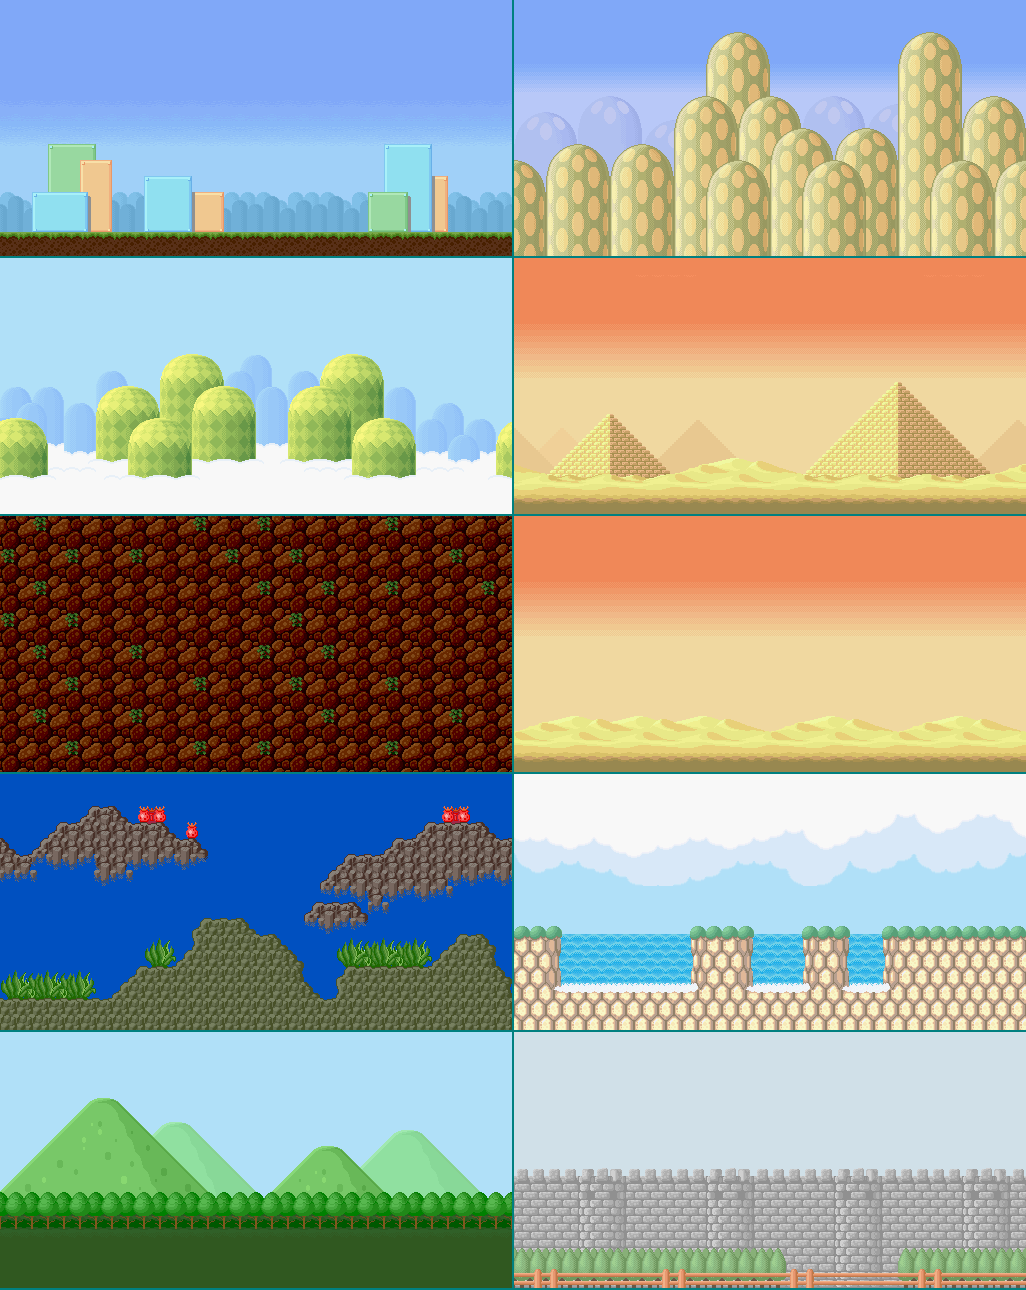
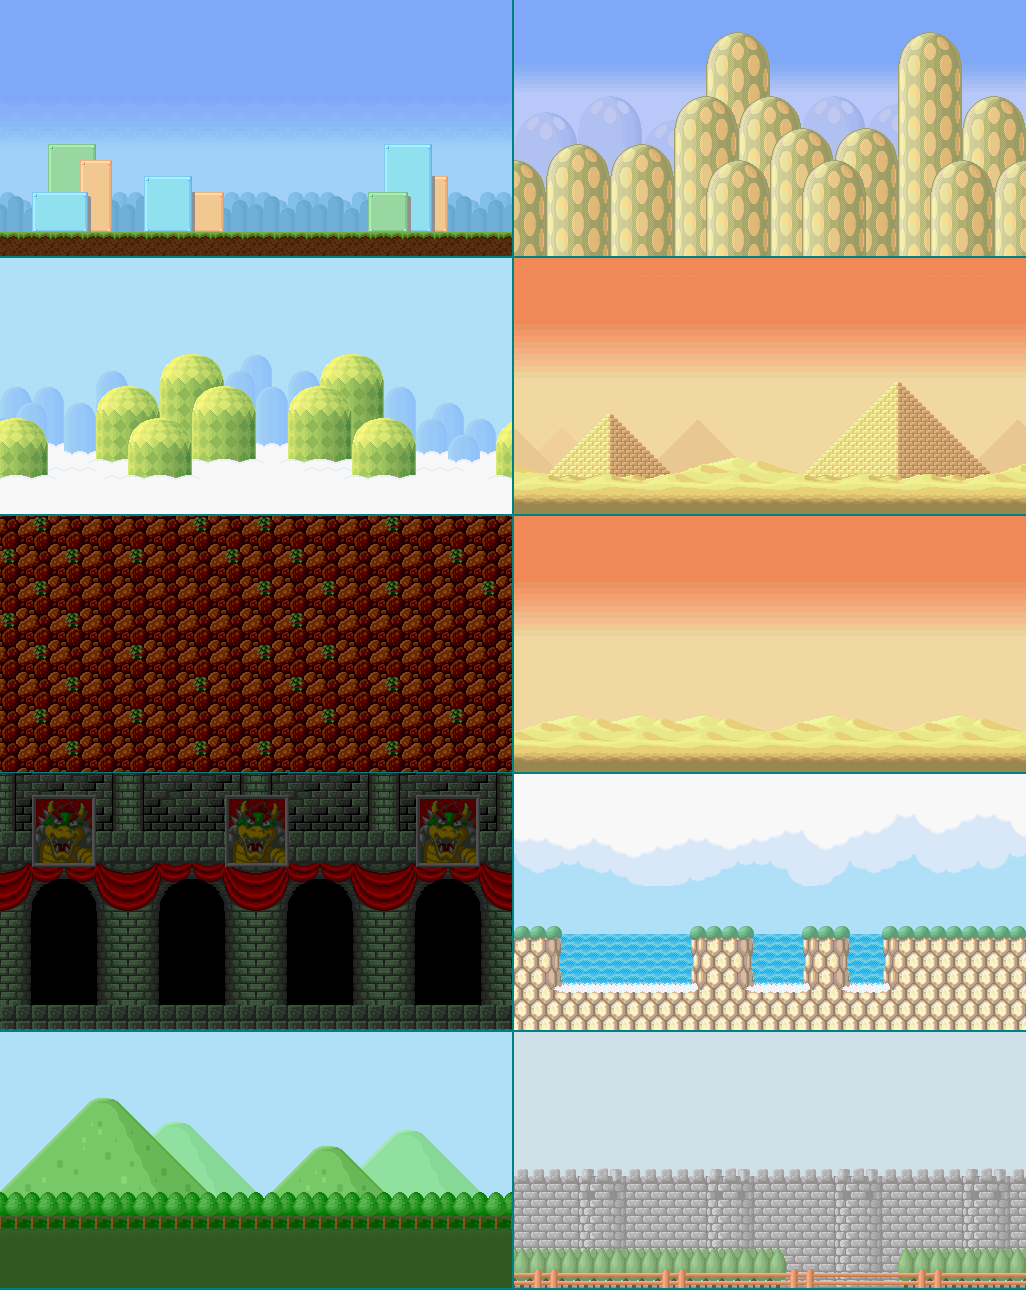
Implemented Boss Level fully. Other small fixes.
- Added Level 4
- Implemented variable levelID to change levels ( 4 max currently)
- Added checks in Load level to not try to create Boss, Flag, or castles
if they dont exist (was causing an error)
- Implemented more checks in the Question Box but still not working
totally. Sometimes its possible to hit a Question box on the side, and
the coins is triggered. Still needs a little more work.

Changed region(s): [[0.0, 0.5891, 0.499, 0.8062]]

diff --git a/Mario/game.js b/Mario/game.js
@@ -362,13 +362,21 @@ GameEngine.prototype.loadLevel = function (jSonString, gameEngine) {
 
     // need to make it load from json testing now
     //castle inside entitiies obj from json
-    gameEngine.addEntity(new Castle(this.entitiesObj.castle.init_x, this.entitiesObj.castle.init_y, gameEngine));
+    if(this.entitiesObj.castle) {
+    	    gameEngine.addEntity(new Castle(this.entitiesObj.castle.init_x, this.entitiesObj.castle.init_y, gameEngine));
+    }
 
-    // pole
+    if(this.entitiesObj.pole) {
+    	    // pole
     gameEngine.addEntity(new Pole(this.entitiesObj.pole.init_x, this.entitiesObj.pole.init_y, gameEngine));
+    }
 
-    // Boss
+    if(this.entitiesObj.boss) {
+    	    // Boss
     gameEngine.addEntity(new Bowser(this.entitiesObj.boss.init_x, this.entitiesObj.boss.init_y, gameEngine));
+    }
+
+
 
     //Mario inside Players
     this.marioObj = this.playersObj.mario;
@@ -1248,7 +1256,7 @@ QuestionBox.prototype.update = function () {
 QuestionBox.prototype.collide = function(other) {
     //Check for bottom collision
     
-    if(other.boundingbox.top < this.boundingbox.bottom && other.boundingbox.bottom > this.boundingbox.bottom) { //We have a collsion from below
+    if(other.boundingbox.top < this.boundingbox.bottom && other.boundingbox.bottom > this.boundingbox.bottom && ((other.boundingbox.left < this.boundingbox.right && other.boundingbox.right > this.boundingbox.right) ||(other.boundingbox.right > this.boundingbox.left && other.boundingbox.left < this.boundingbox.left)) ) { //We have a collsion from below
             if(!this.hitAlready) { //if not hit already
                 if(this.hasCoin) {                   
                     this.hitAlready = true;
@@ -1805,13 +1813,13 @@ Bowser.prototype.constructor = Bowser;
 
 Bowser.prototype.update = function () {
 		//Track Marios location and approach within 10 pixels to attack
-		if((this.game.mario.x - this.x) <= -30 ) { //Mario is on the left, Bowser go right
+		if((this.game.mario.x - this.x) <= -40 ) { //Mario is on the left, Bowser go right
 			this.isRight = false;
 			this.isWalking = true;
 			this.timeToShoot = false;
 			this.direction--;
     		this.lastDirection = -1;
-		} else if((this.game.mario.x - this.x) >= 30 ) { //Mario is on the right, Bowser go left
+		} else if((this.game.mario.x - this.x) >= 40 ) { //Mario is on the right, Bowser go left
 			this.isRight = true;
 			this.isWalking = true;
 			this.timeToShoot = false;
@@ -1889,11 +1897,11 @@ Bowser.prototype.draw = function (ctx) {
     //ctx.strokeRect(this.x, this.y, this.rightBowserShootAnimation.frameWidth, this.rightBowserShootAnimation.frameHeight);
 	if(this.timeToShoot && !this.isJumping) {
 		if(this.isRight) {
-			this.rightBowserShootAnimation.drawFrame(this.game.clockTick, ctx,  this.x, this.y);
+			this.rightBowserShootAnimation.drawFrame(this.game.clockTick, ctx,  this.x, this.y+1);
 			//this.game.addEntity(new FireBall(this.x + 40, this.y+15, this.game, this.isRight)); //have a fire entity come out of bowsers mouth
 
 		} else {
-        	this.leftBowserShootAnimation.drawFrame(this.game.clockTick, ctx,  this.x, this.y);
+        	this.leftBowserShootAnimation.drawFrame(this.game.clockTick, ctx,  this.x, this.y+1);
         	//this.game.addEntity(new FireBall(this.x, this.y +15, this.game, this.isRight)); //have a fire entity come out of bowsers mouth
 		}
 
@@ -2067,18 +2075,37 @@ ASSET_MANAGER.downloadAll(function () {
     var gameboard = new GameBoard();
 
     gameEngine.addEntity(gameboard);
-
+    var levelID = 1;
     try {
-        $.get('services/levelService.php', {id:1}, function(data) {
+        $.get('services/levelService.php', {id:levelID}, function(data) {
             gameEngine.loadLevel(data, gameEngine);
             gameEngine.init(ctx);
             gameEngine.start();
            
-        }).fail(function(error) { gameEngine.loadLevel(level1, gameEngine);
-        gameEngine.init(ctx);
-        gameEngine.start();});
+        }).fail(function(error) { 
+        	if(levelID === 1) {
+        		gameEngine.loadLevel(level1, gameEngine);
+        	} else if(levelID === 2) {
+        	    gameEngine.loadLevel(level2, gameEngine);
+        	} else if(levelID === 3) {
+        	    gameEngine.loadLevel(level3, gameEngine);
+        	}else if (levelID === 4) {
+        	    gameEngine.loadLevel(level4, gameEngine);
+        	}
+
+        	gameEngine.init(ctx);
+        	gameEngine.start();});
+
     } catch (err) {
-        gameEngine.loadLevel(level1, gameEngine);
+    	    if(levelID === 1) {
+        		gameEngine.loadLevel(level1, gameEngine);
+        	} else if(levelID === 2) {
+        	    gameEngine.loadLevel(level2, gameEngine);
+        	} else if(levelID === 3) {
+        	    gameEngine.loadLevel(level3, gameEngine);
+        	}else if (levelID === 4) {
+        	    gameEngine.loadLevel(level4, gameEngine);
+        	}
         gameEngine.init(ctx);
         gameEngine.start();
     }

diff --git a/Mario/level1.js b/Mario/level1.js
@@ -22,21 +22,13 @@ var level1 = {"levels":
                         {"id":1, "init_x":100,"init_y":210,"spritesheet":"images/smb3_enemies_sheet.png"},
                         {"id":2, "init_x":910,"init_y":210,"spritesheet":"images/smb3_enemies_sheet.png"},
                         {"id":3, "init_x":475,"init_y":210,"spritesheet":"images/smb3_enemies_sheet.png"},
-                        //{"id":4, "init_x":1180,"init_y":210,"spritesheet":"images/smb3_enemies_sheet.png"},
+                        {"id":4, "init_x":1180,"init_y":210,"spritesheet":"images/smb3_enemies_sheet.png"},
                         {"id":5, "init_x":1680,"init_y":210,"spritesheet":"images/smb3_enemies_sheet.png"},
-                        //{"id":6, "init_x":1980,"init_y":210,"spritesheet":"images/smb3_enemies_sheet.png"},
+                        {"id":6, "init_x":1980,"init_y":210,"spritesheet":"images/smb3_enemies_sheet.png"},
                         {"id":7, "init_x":2250,"init_y":210,"spritesheet":"images/smb3_enemies_sheet.png"},
                         {"id":8, "init_x":2550,"init_y":210,"spritesheet":"images/smb3_enemies_sheet.png"},
                         {"id":9, "init_x":2850,"init_y":210,"spritesheet":"images/smb3_enemies_sheet.png"},
-                        //{"id":10, "init_x":3150,"init_y":210,"spritesheet":"images/smb3_enemies_sheet.png"}
-                    ],
-                    "redkoopa":[
-                        {"id":1, "init_x":1180,"init_y":205,"spritesheet":"images/smb3_enemies_sheet.png"},
-                        {"id":1, "init_x":1980,"init_y":205,"spritesheet":"images/smb3_enemies_sheet.png"},
-                        {"id":1, "init_x":3150,"init_y":205,"spritesheet":"images/smb3_enemies_sheet.png"}
-                    ],
-                    "chomper":[
-                        {"id":1, "init_x":642,"init_y":127,"spritesheet":"images/smb3_enemies_sheet.png"}
+                        {"id":10, "init_x":3150,"init_y":210,"spritesheet":"images/smb3_enemies_sheet.png"}
                     ]
                 },
 
@@ -193,7 +185,6 @@ var level1 = {"levels":
 
                 },
                 "castle" : {"id": 1,"init_x":3464,"init_y":153,"spritesheet": "images/castlepole.gif"},
-                "boss" : {"id": 1,"init_x":217,"init_y":300,"spritesheet": "images/boss_sprite.png"},
                 "pole": {"id": 1,"init_x":3340,"init_y":60,"spritesheet": "images/castlepole.gif"}
             }
         }

diff --git a/Mario/level4.js b/Mario/level4.js
@@ -1,0 +1,88 @@
+var level4 = {"levels":
+        { "id": 4,
+            "description": "Boss Level",
+            "background":{
+                "spritesheet": "/images/bosslevel.png",
+                "start_x":1,
+                "start_y":1,
+                "size_x":512,
+                "size_y":256,
+                "length":2
+            },
+            "entities":{
+                "players":{
+                    "mario":{
+                        "init_x":0,
+                        "init_y":208,
+                        "spritesheet":"images/smb3_mario_sheet.png"
+                    }
+                },
+                "enemies":{
+                    "goomba":[
+                        
+                    ]
+                },
+
+
+                "blocks":{
+                    "staticGoldblocks": [
+                        
+
+
+                    ],
+                    "questionBlocks": [
+                        
+
+                    ],
+                    "shineyGoldBlocks": [
+                        
+
+                    ],
+                    "shineyBlueBlocks": [
+                        
+
+
+                    ],
+                    "whiteMusicBlocks": [
+                        
+
+                    ],
+                    "pinkMusicBlocks": [
+                        
+
+
+                    ],
+                    "powBlocks": [
+                        
+
+                    ],
+                    "colorExclamationBlocks": [
+                        
+
+                    ],
+                    "greenPipes": [
+                        
+
+                    ],
+                    "coin": [
+                        
+
+
+
+
+                    ]
+
+                },
+                "boss" : {"id": 1,"init_x":50,"init_y":193,"spritesheet": "images/boss_sprite.png"}
+
+            }
+        }
+    }
+
+
+
+
+
+
+
+
